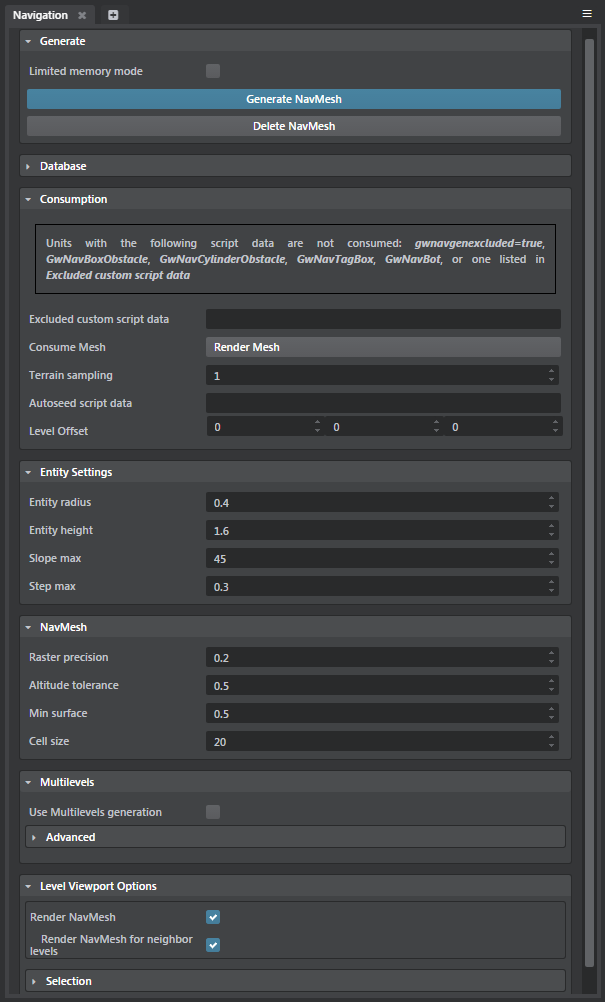
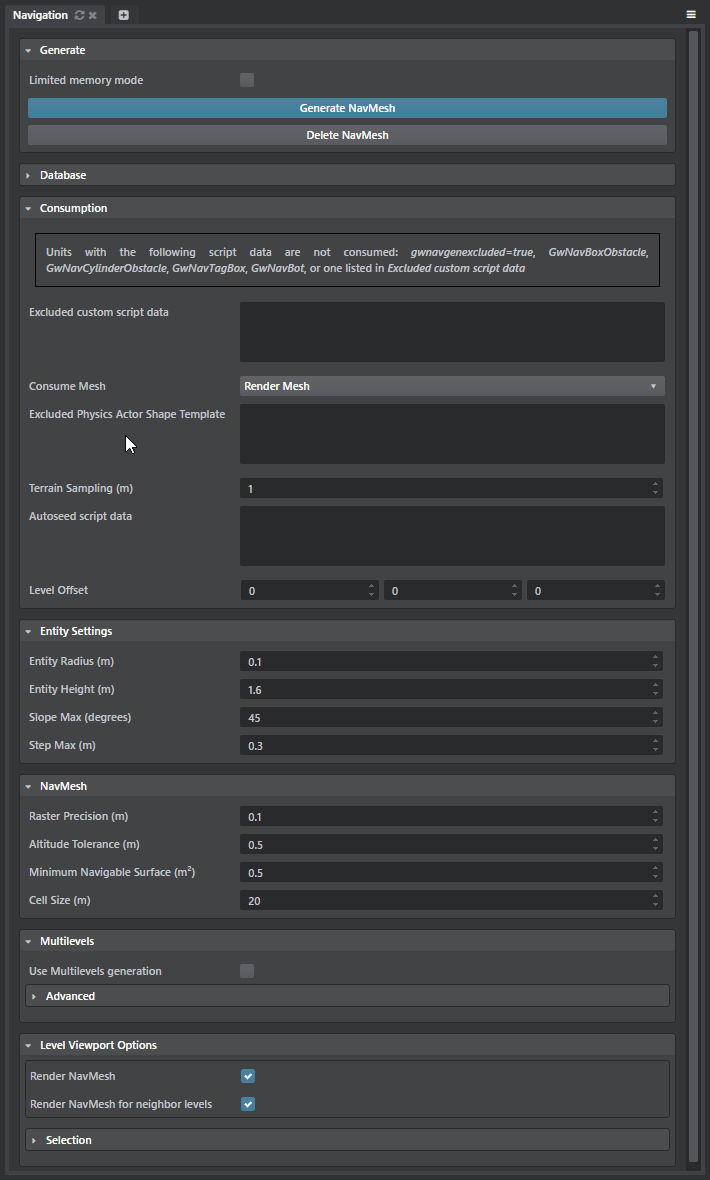
Update description of the navigation panel, due to the addition of a field to exclude physics actor using their shape template

Changed region(s): [[0.0298, 0.0, 0.9818, 0.99], [0.3273, 0.8044, 0.3868, 0.8353], [0.1488, 0.0, 0.2083, 0.0309]]

diff --git a/source/stingray_help/creating_gameplay/ai_and_pathfinding/navigation_window.md b/source/stingray_help/creating_gameplay/ai_and_pathfinding/navigation_window.md
@@ -53,6 +53,9 @@ These options specify how to generate the NavMesh.
  <br/>**Note** that terrains (heightfield physics actors) are always consumed regardless of `Consume Mesh` value, though script data exclusion still applies.
 </dd>
 
+<dt>Excluded Physics Actor Shape Template</dt>
+<dd>When `Physics Actor` is selcted to consume meshes, the NavMesh generation will consume all static actors except if their shape template is listed into `Excluded Physics Actor Shape Template` field (a comma-separated list)</dd>
+
 <dt>Terrain Sampling</dt>
 <dd>Terrain sampling size in meters. If set to 0, the sampling consumes the heightfield as-is.</dd>
 
